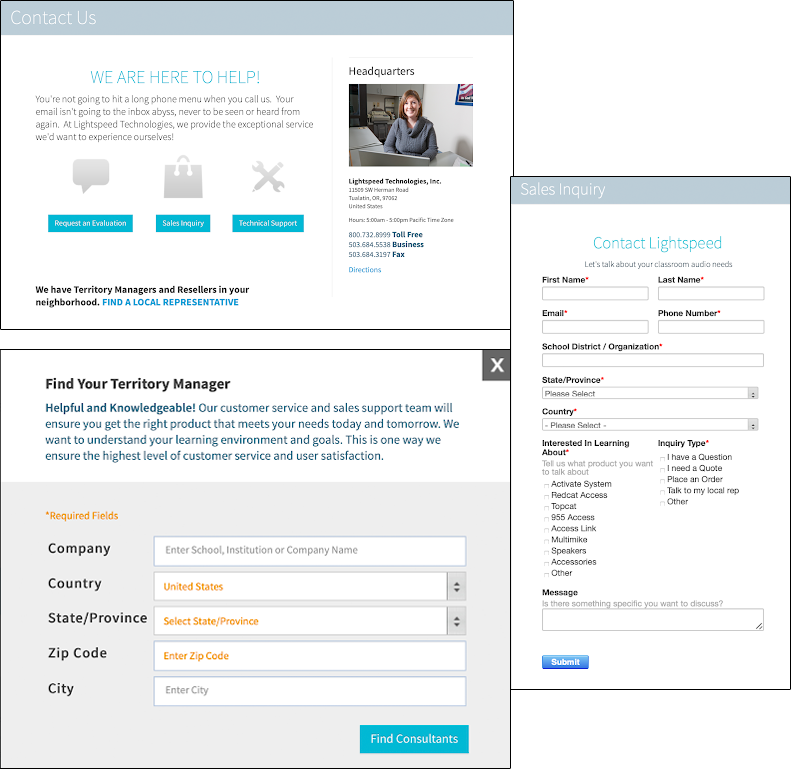
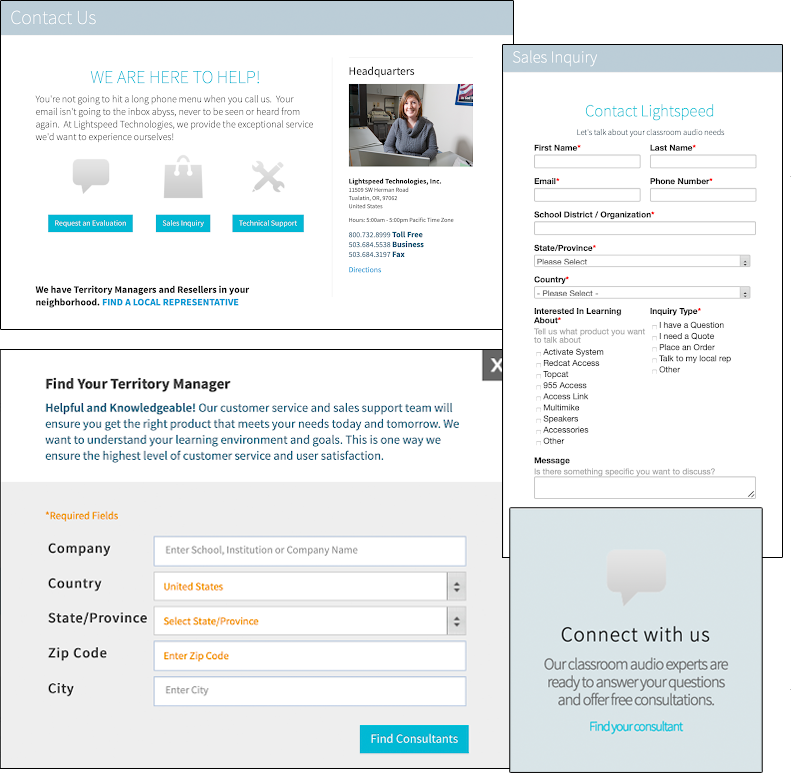
Edits

Changed region(s): [[0.6372, 0.1236, 1.0, 1.0], [0.6372, 0.0309, 1.0, 0.0927], [0.9406, 0.4942, 0.9709, 0.556]]

diff --git a/docs/usability-improvements-kpi.md b/docs/usability-improvements-kpi.md
@@ -14,20 +14,20 @@ After diagnosing usability barriers, our team has identified methods by which Li
 
 ## Information architecture recommendations **refined**{: .label}
 
-To increase ease-of-use for all Lightspeed web visitors, we suggest the following updates to the site’s information architecture: 
+To increase ease-of-use for all of Lightspeed’s web visitors, we suggest the following updates to the site’s information architecture: 
 
 ### Content category standardization
 The content categories included in the main navigation and the footer are inconsistent, including when referring to the same piece of content. For example, in the main nav, “Resources” is where whitepapers, videos and customer stories live. In the footer, those items are included under a heading called “Learn.” To avoid confusion, ensure that all content categories are standardized across the organization and catalogued for quick reference.
 
 ### Consistent ordering of navigation options
-The main nav and the footer contain many of the same menu options, but are ordered differently on the page. For example, “About” is the second to last menu option along the main nav, but the first menu option along the footer. For a consistent user-experience, the options in both areas should be consistent.
+The main nav and the footer contain many of the same menu options, but are ordered differently on the page. For example, “About” is the second to last menu option along the main nav, but the first menu option along the footer. For a consistent user experience, the options in both areas should be consistent.
 
 ![Navigation bar with Products, Shop, Support, Resources, About, Blog, and a magnifying glass]({{ 'assets/images/usability-kpi-nav.png' | relative_url }})
 
 ![Footer with About, Learn, Products, Shop, Support, and Contact]({{ 'assets/images/usability-kpi-footer.png' | relative_url }})
 
 ### Consistent subnav options
-In addition to standardizing content categories and nav menu ordering, subnav items should mirror each other in the main nav and footer. For example, in the main nav, “About” has no secondary drop-down sections listed. In the footer, “About” has five sub-sections listed. Similarly, “Support” in the main nav includes a FAQ sub-nav option, while FAQ is not listed under “Support” in the footer. 
+In addition to standardizing content categories and nav menu ordering, subnav items should mirror each other in the main nav and footer. For example, in the main nav, “About” has no secondary drop-down sections listed. In the footer, “About” has five sub-sections listed. Similarly, “Support” in the main nav includes a FAQ subnav option, while FAQ is not listed under “Support” in the footer. 
 
 #### Main nav
 
@@ -43,15 +43,15 @@ As web visitors scroll through any page on the Lightspeed website, a sticky vers
 ![Header with Product, Shop, Support, Resources, About, and Blog, with Contact and magnifying glass]({{ 'assets/images/usability-kpi-contact.png' | relative_url }})
 
 ### “Products” vs. “Shop”
-For website visitors, the difference between “Products” and “Shop”—both options along  the main nav—may not be apparent. We suggest combining both product specs and sales details under one main nav option called “Solutions.” On that page, we believe a comparison tool to evaluate Lightspeed’s offerings alongside each other would be especially helpful for a specific use case. 
+For website visitors, the difference between “Products” and “Shop”—both options along the main nav—may not be apparent. We suggest combining both product specs and sales details under one main nav option called “Solutions.” On that page, we believe a comparison tool to evaluate Lightspeed’s offerings alongside each other would be especially helpful for a specific use case. 
 
 ### Addressing mixed messages around contacting Lightspeed
-On the homepage, visitors may be overwhelmed by the number of invitations to connect with Lightspeed–especially if they’re not at a point where reaching out is appropriate. More complicated is that the invitations to connect lead users down different paths:
+On the homepage, visitors may be overwhelmed by the number of invitations to connect with Lightspeed—especially if they’re not at a point where reaching out is appropriate. More complicated is that the invitations to connect lead users down different paths:
 
 - Once on the [Contact page](https://www.lightspeed-tek.com/contact/), users are prompted to choose between requesting an evaluation, submitting a sales inquiry, asking for technical support or finding their local Lightspeed rep; all options lead to separate form fill pages
 - On the [Sales Consultants page](https://www.lightspeed-tek.com/about-us/sales-consultants/), users can either contact sales or find a rep; both lead to separate form fills
 
-To avoid confusion, consider streamlining Lightspeed’s contact page and the avenues people are given to arrive there. Add “Contact Us” to the main nav for visibility, and use that as an opportunity to remove some of the duplicative links across the page.
+To avoid confusion, consider streamlining Lightspeed’s contact page and the avenues people are given to arrive there. Add “Contact Us” to the main nav for visibility, and use that as an opportunity to remove some of the duplicate links across the page.
 
 #### Multiple contact forms
 ![Three separate contact forms, one titled 'we are here to help', with phone numbers and find a local representative link, the second with contact lightspeed asking for name, school, and product interest, and the third with territory manager, company, and location]({{ 'assets/images/usability-kpi-contact-2.png' | relative_url }})
@@ -63,18 +63,17 @@ The Lightspeed website’s main navigation and footer are difficult to navigate 
 
 ![Header navigation, full description follows]({{ 'assets/images/usability-kpi-header-ia.png' | relative_url }})
 
-
 #### Proposed website footer structure
 
 ![Footer navigation, full description follows]({{ 'assets/images/usability-kpi-footer-ia.png' | relative_url }})
+*Indicates suggested subnav menu option that does not currently exist on the website
 
 #### Proposed navigation **Accessible alternative**{: .label .label-purple }
 
 ##### Header and footer
 
 - About
-  - About Lightspeed
-  - Meet the Team
+  - Meet the Team*
   - Blog
   - Press Room
   - Careers
@@ -89,18 +88,18 @@ The Lightspeed website’s main navigation and footer are difficult to navigate 
 - Resources
   - Videos
   - Customer Stories
-  - Testimonials
+  - Testimonials*
   - Whitepapers
   - Research
-  - Buyer's Kit
+  - Buyer's Kit*
 - Help Center
-  - Videos
-  - Customer Stories
-  - Testimonials
-  - Whitepapers
-  - Research
-  - Buyer's Kit
+  - On-Demand Support
+  - Submit Ticket
+  - Support Programs
+  - Warranty Programs
 - Contact Us
+
+*Indicates suggested subnav menu option that does not currently exist on the website
 
 ##### Footer only
 
